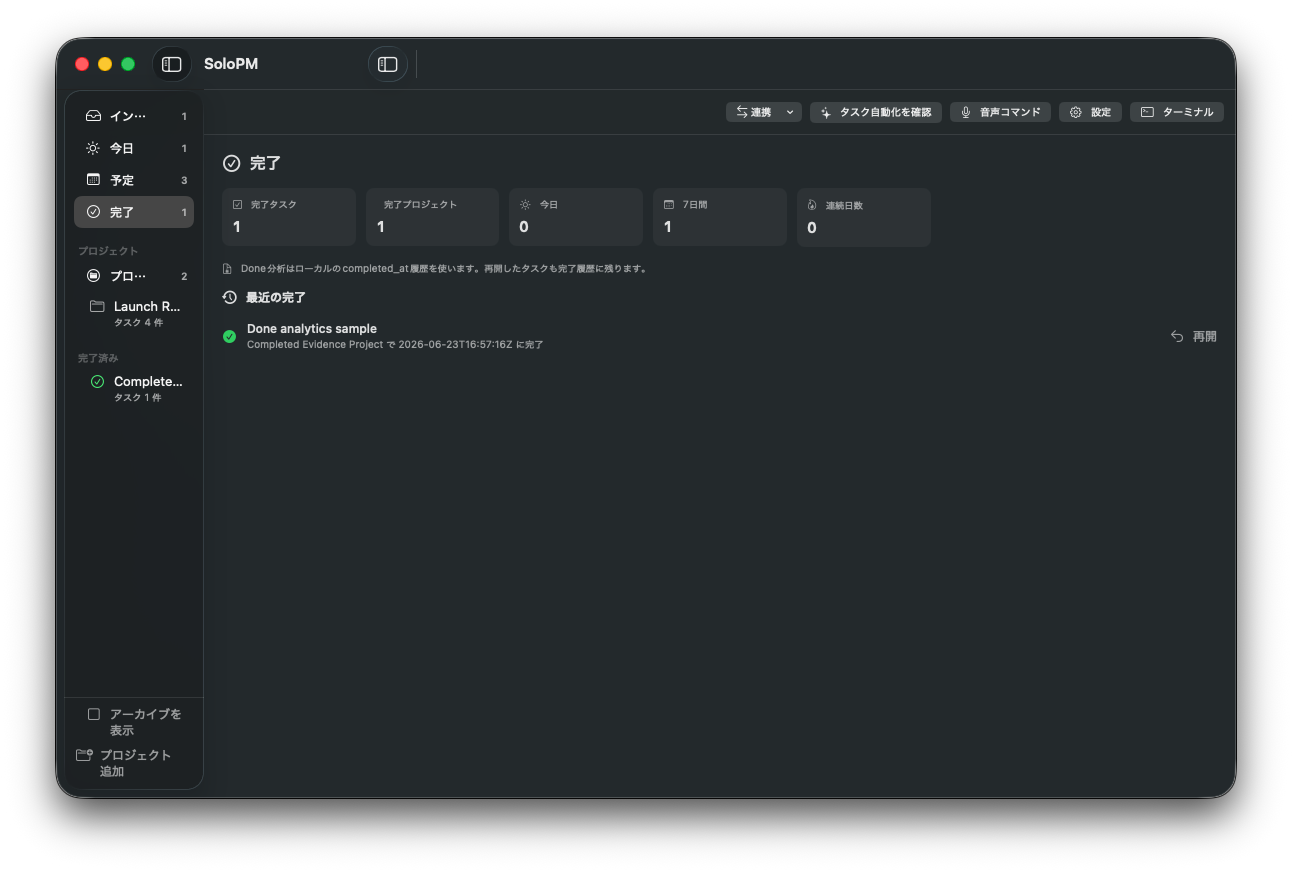
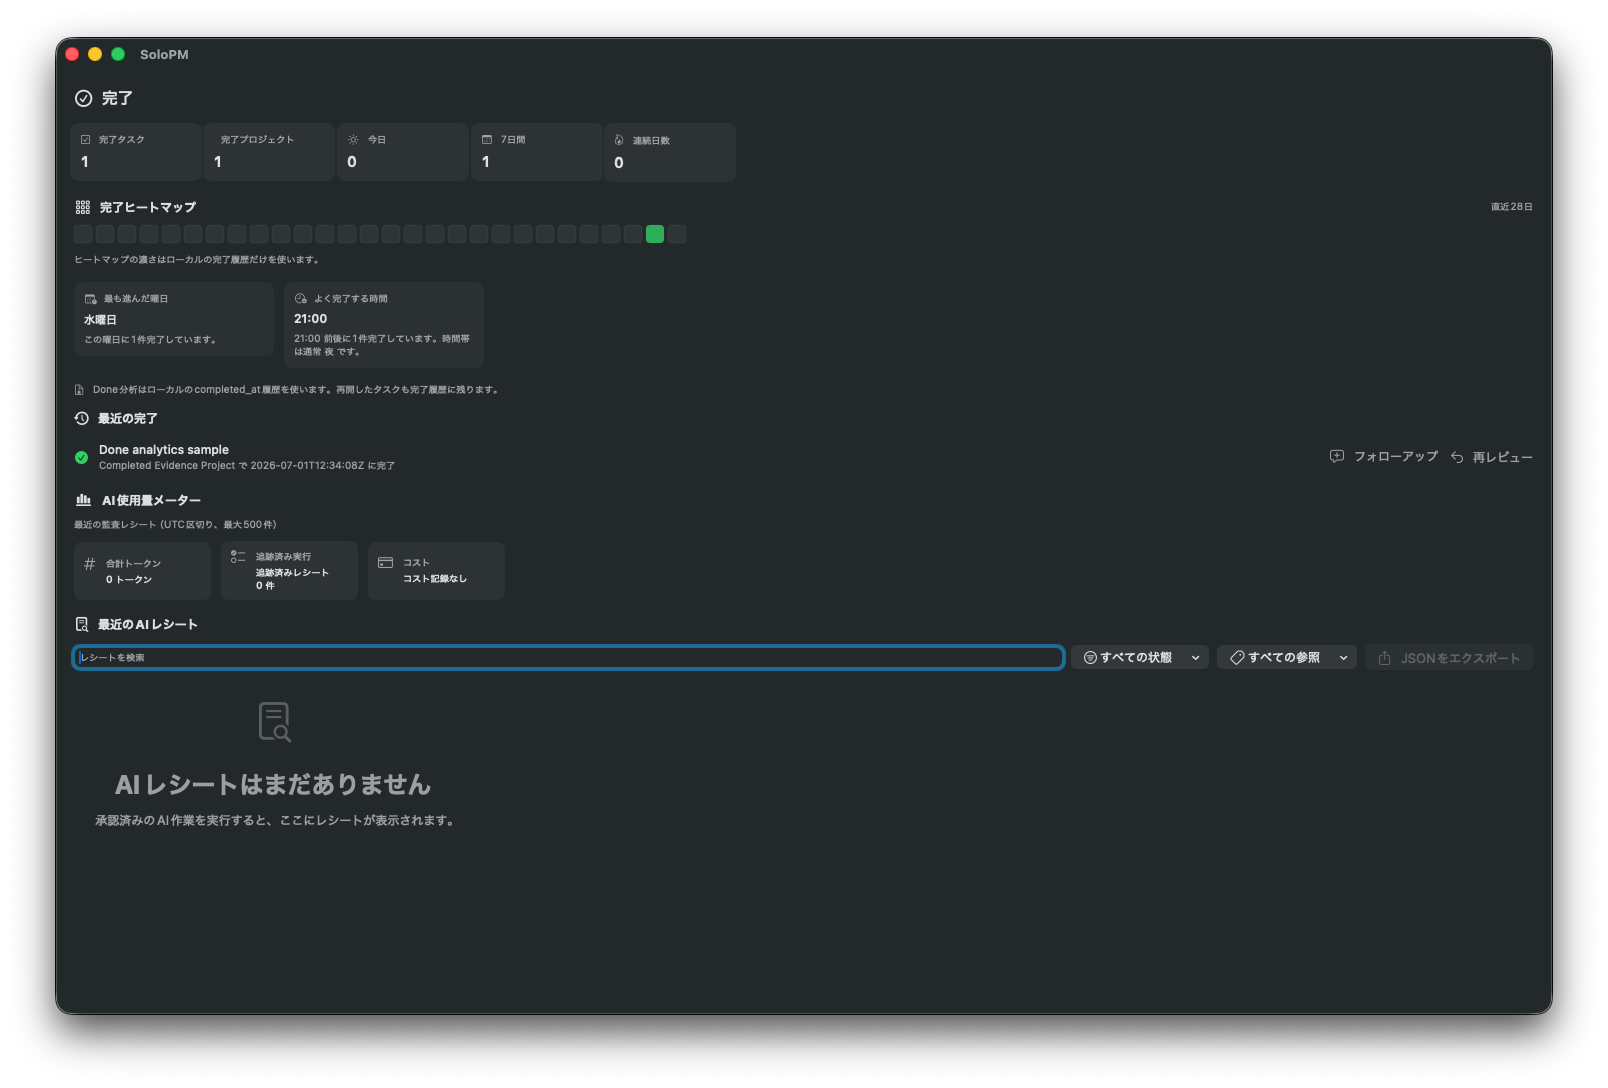
Refresh Done analytics screenshot evidence

diff --git a/docs/release/evidence/done-analytics-screenshots.md b/docs/release/evidence/done-analytics-screenshots.md
@@ -1,0 +1,21 @@
+# Done Analytics Screenshot Evidence
+
+Generated with `script/capture_ui_evidence.sh --done-analytics`.
+This targeted evidence covers issue #10 Done analytics light/dark closeout without rewriting the full release screenshot set.
+
+- Generated at: `2026-07-02T12:34:19Z`
+- Source commit: `32fa827e`
+- Screen Recording preflight: `script/capture_ui_evidence.sh --doctor`
+- Target markers: `done-workflow`, `done-completion-heatmap`, `done-productivity-insight`, `done-local-rule-insight`
+
+## Done Analytics
+
+- Light: `docs/release/evidence/ui-screenshots/done-light.png`
+- Dark: `docs/release/evidence/ui-screenshots/done-dark.png`
+
+## Guardrails
+
+- The Done dashboard is seeded from local ProjectBoard completion history in an isolated SQLite database.
+- Opening Done analytics does not enqueue or execute external writes.
+- API keys, provider tokens, OAuth tokens, calendar contents, and customer file contents are not captured.
+- The app runs with `SOLOPM_DISABLE_KEYCHAIN_SECRET_STORE=1`, an isolated HOME, and a seeded SQLite database.
